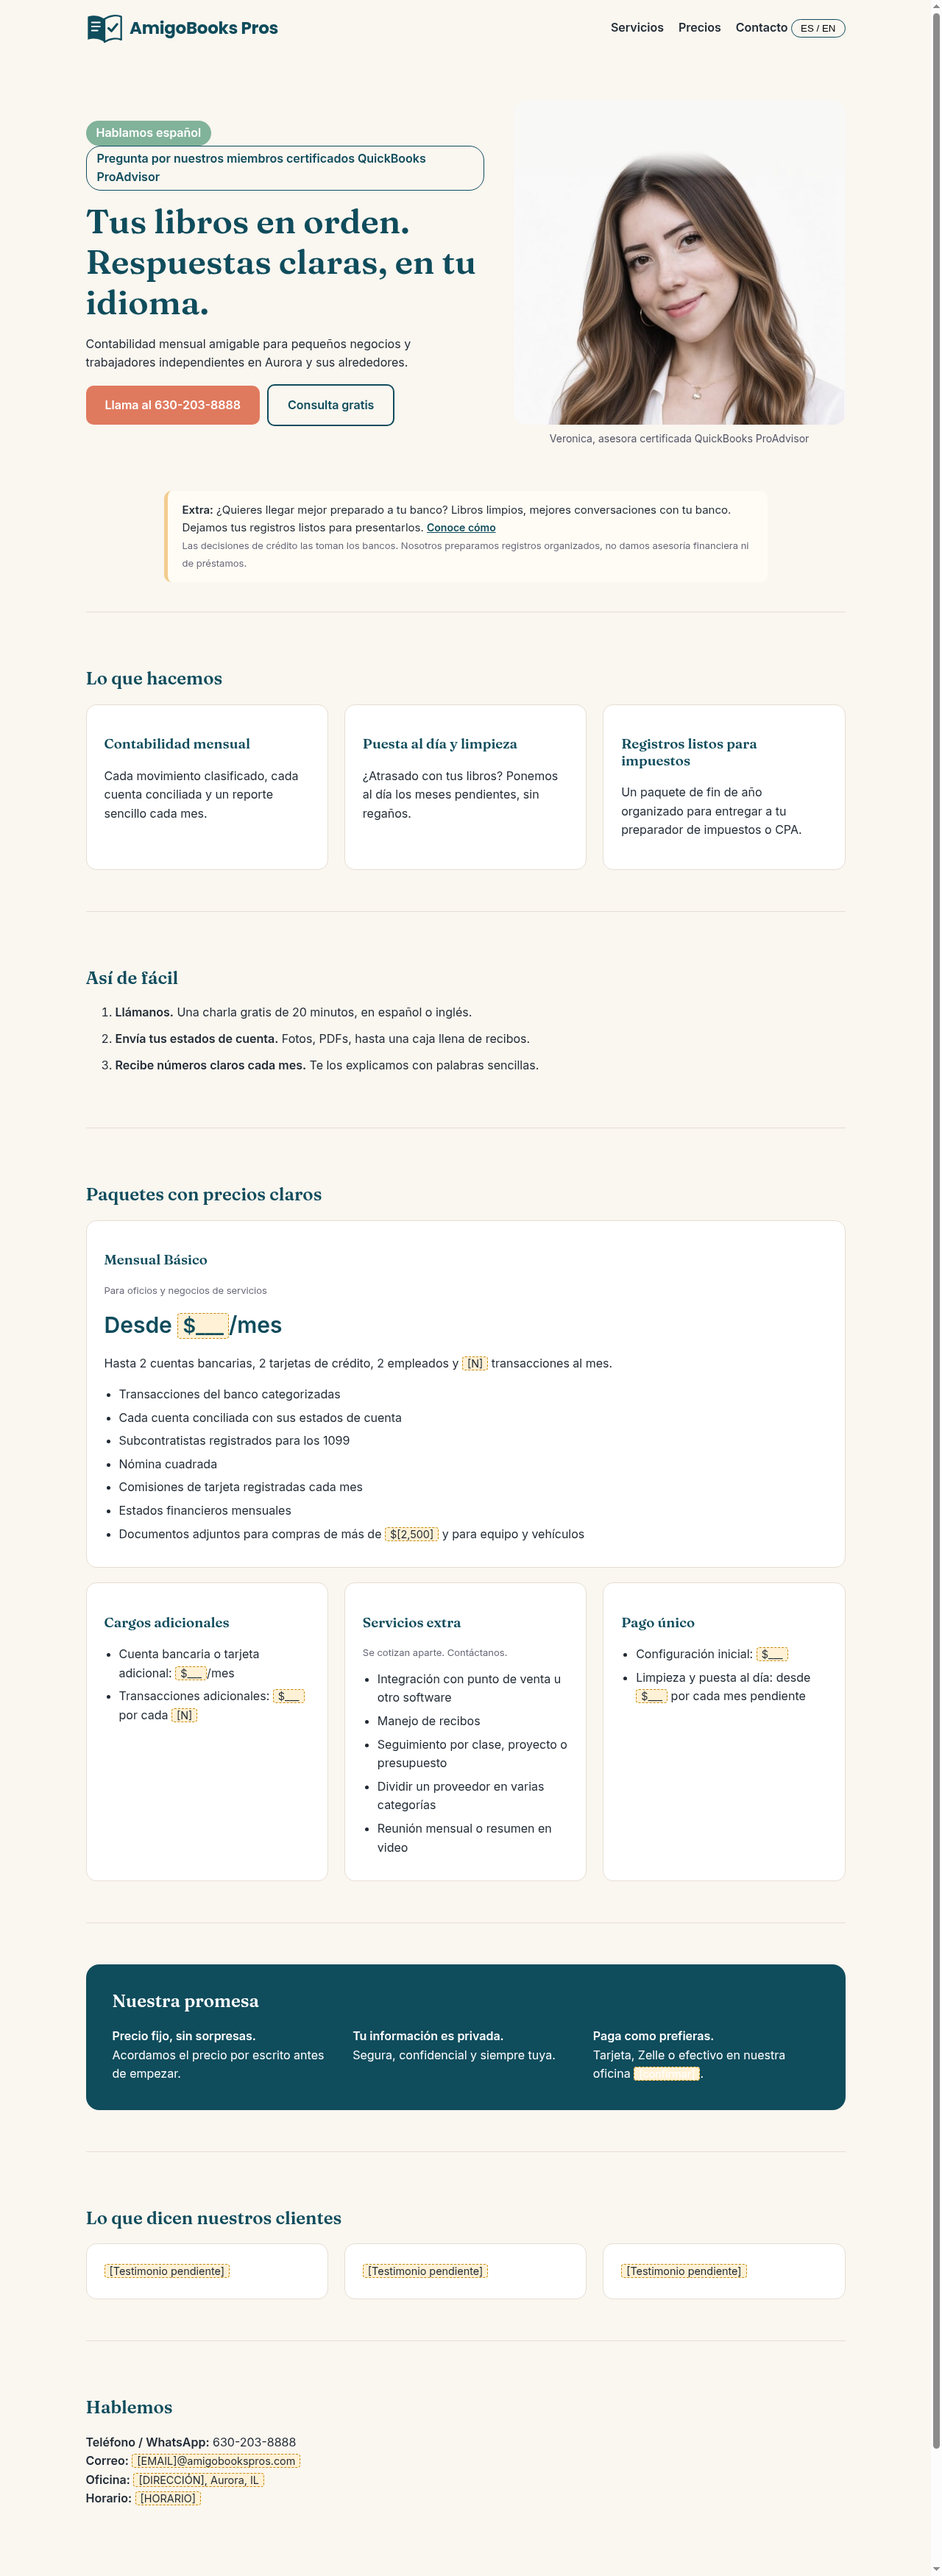
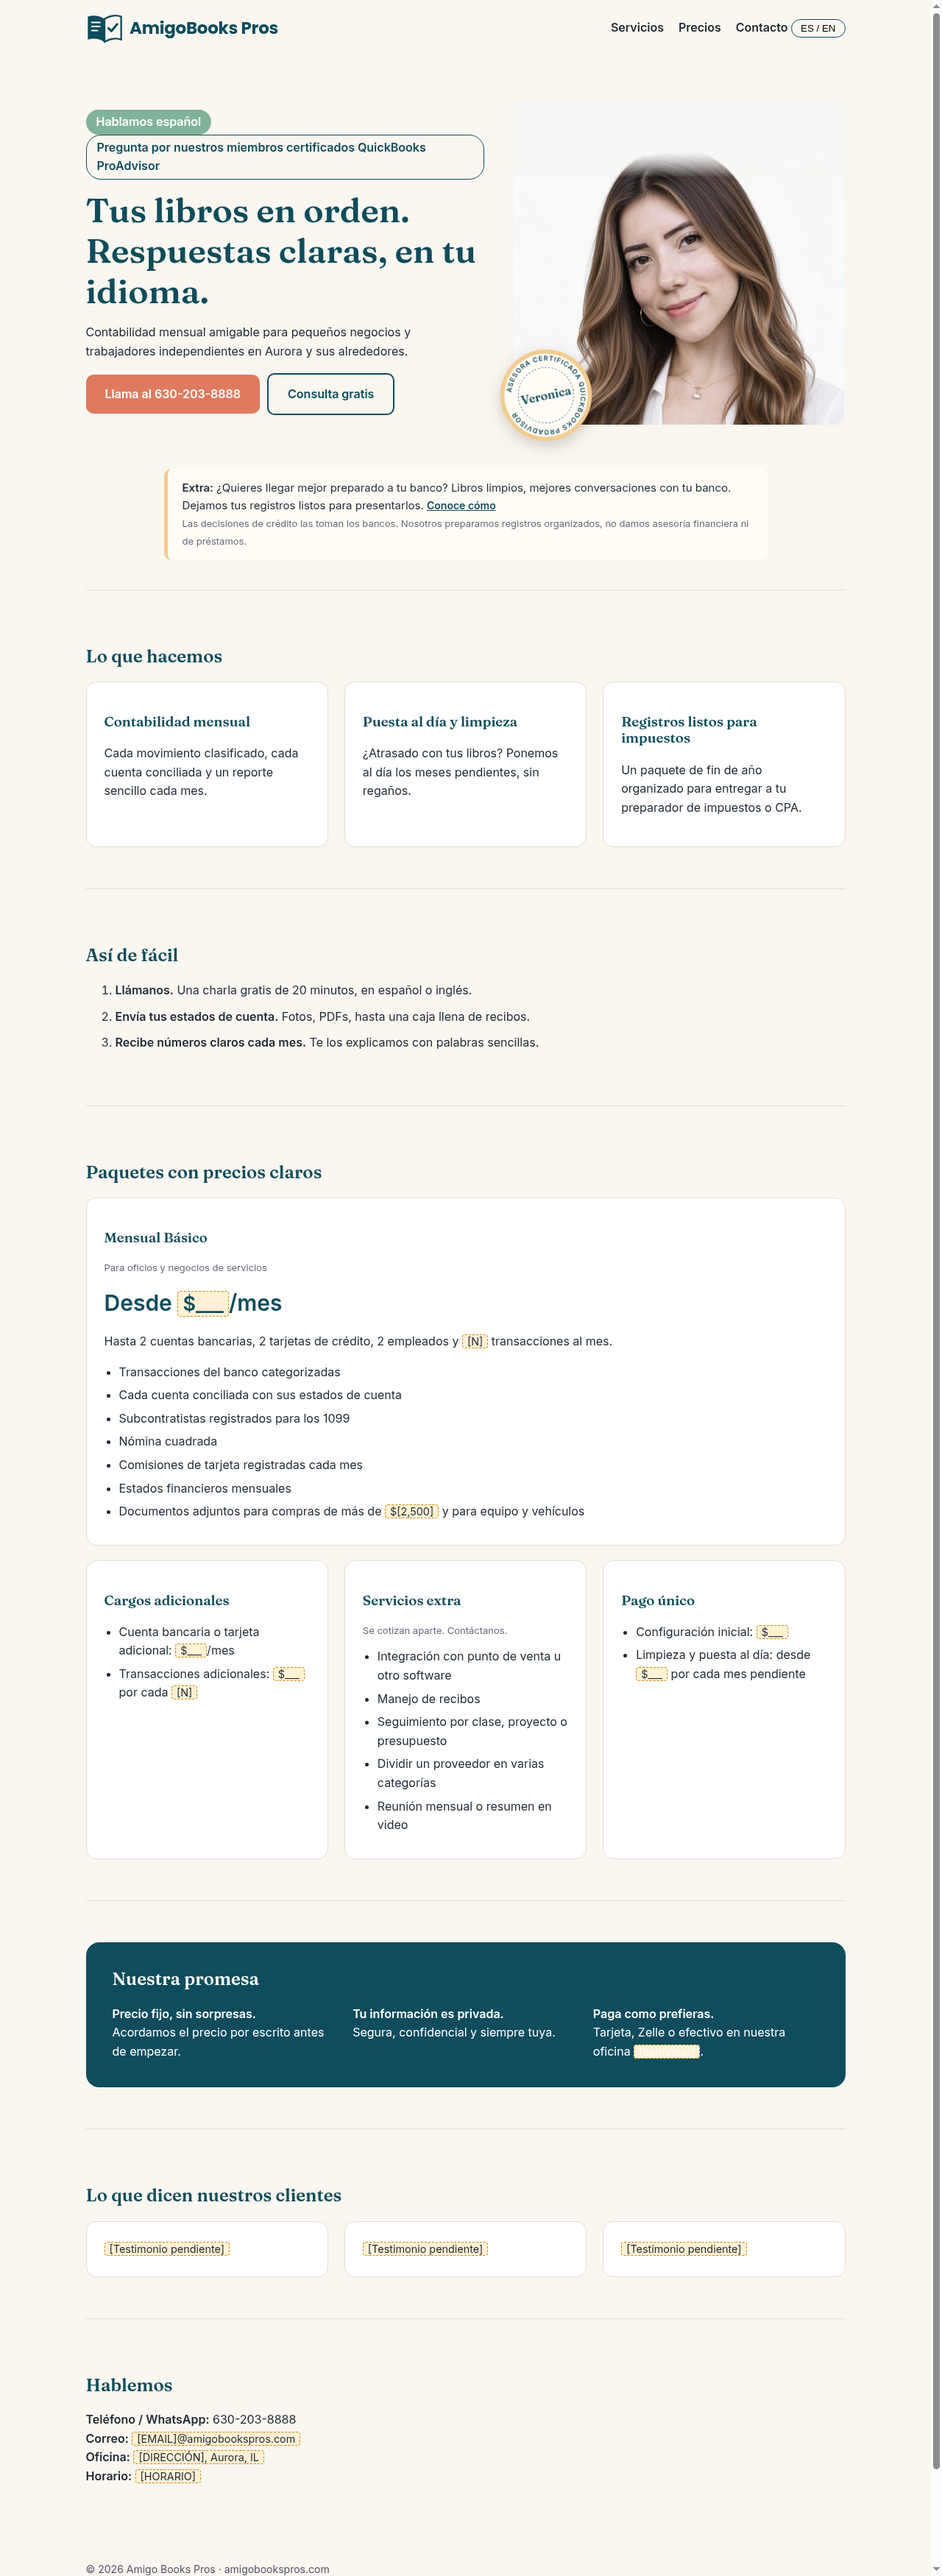
Replace photo caption with ProAdvisor seal

diff --git a/index.html b/index.html
@@ -24,7 +24,7 @@ section{padding:56px 0;border-top:1px solid var(--line)}
 .bonus{margin:0 auto 40px;max-width:820px;background:#FFFCF5;border-left:5px solid #F2CC8F;border-radius:10px;padding:14px 20px;font-size:15px}.bonus a{color:var(--teal);font-weight:600;font-size:14px}
 .disc{font-size:13px;color:#667}
 @media(max-width:800px){.hero,.g3,.promise{grid-template-columns:1fr}}
-.core{}.pl{padding-left:20px;margin:8px 0}.pl li{margin-bottom:6px}.vphoto{margin:0}.vphoto img{width:100%;height:440px;object-fit:cover;object-position:50% 0;border-radius:16px;display:block}.vphoto figcaption{font-size:14px;color:#556;margin-top:8px;text-align:center}</style></head><body>
+.core{}.pl{padding-left:20px;margin:8px 0}.pl li{margin-bottom:6px}.vphoto{margin:0;position:relative}.seal{position:absolute;left:-22px;bottom:-26px;width:132px;height:132px;transform:rotate(-12deg);filter:drop-shadow(0 6px 10px rgba(0,0,0,.18))}.seal svg{width:100%;height:100%}.seal .ring{font:700 9.6px Inter,sans-serif;letter-spacing:1px;fill:#0F4C5C}.seal .nm{font:600 17px Fraunces,serif;fill:#0F4C5C}@media(max-width:800px){.seal{width:108px;height:108px;left:-6px;bottom:-20px}}.vphoto img{width:100%;height:440px;object-fit:cover;object-position:50% 0;border-radius:16px;display:block}.vphoto figcaption{font-size:14px;color:#556;margin-top:8px;text-align:center}</style></head><body>
 <div class="wrap">
 <header><a class="logo" href="#" aria-label="AmigoBooks Pros"><svg viewBox="0 0 64 52" width="50" aria-hidden="true"><path d="M32 10 C22 3 10 3 3 6 V46 C10 43 22 43 32 50Z" fill="#0F4C5C"/><path d="M32 10 C42 3 54 3 61 6 V46 C54 43 42 43 32 50Z" fill="none" stroke="#0F4C5C" stroke-width="3" stroke-linejoin="round"/><path d="M10 16h14M10 23h14M10 30h10" stroke="#fff" stroke-width="2.6" stroke-linecap="round"/><path d="M39 26l5 5 10-12" stroke="#0F4C5C" stroke-width="4" fill="none" stroke-linecap="round" stroke-linejoin="round"/></svg><span>AmigoBooks Pros</span></a>
 <nav><a href="#services" data-en="Services" data-es="Servicios">Services</a><a href="#pricing" data-en="Pricing" data-es="Precios">Pricing</a><a href="#contact" data-en="Contact" data-es="Contacto">Contact</a> <button class="tog" onclick="t()" aria-label="Español / English">ES / EN</button></nav></header>
@@ -33,7 +33,7 @@ section{padding:56px 0;border-top:1px solid var(--line)}
 <h1 data-en="Your books, in order. Clear answers, in your language." data-es="Tus libros en orden. Respuestas claras, en tu idioma.">Your books, in order. Clear answers, in your language.</h1>
 <p data-en="Friendly monthly bookkeeping for small businesses and self-employed workers in Aurora and beyond." data-es="Contabilidad mensual amigable para pequeños negocios y trabajadores independientes en Aurora y sus alrededores.">Friendly monthly bookkeeping for small businesses and self-employed workers in Aurora and beyond.</p>
 <a class="btn" href="tel:6302038888" data-en="Call 630-203-8888" data-es="Llama al 630-203-8888">Call 630-203-8888</a><a class="btn o" href="#contact" data-en="Free consultation" data-es="Consulta gratis">Free consultation</a></div>
-<figure class="vphoto"><img src="veronica.jpg" alt="Veronica" width="800" height="1053"><figcaption data-en="Veronica, Certified QuickBooks ProAdvisor" data-es="Veronica, asesora certificada QuickBooks ProAdvisor">Veronica, Certified QuickBooks ProAdvisor</figcaption></figure></div>
+<figure class="vphoto"><img src="veronica.jpg" alt="Veronica" width="800" height="1053"><div class="seal" aria-label="Veronica, Certified QuickBooks ProAdvisor"><svg viewBox="0 0 140 140" aria-hidden="true"><defs><path id="ring" d="M70 70 m-50 0 a50 50 0 1 1 100 0 a50 50 0 1 1 -100 0"/></defs><circle cx="70" cy="70" r="66" fill="#F2CC8F"/><circle cx="70" cy="70" r="60" fill="#FFFCF5"/><circle cx="70" cy="70" r="40" fill="none" stroke="#0F4C5C" stroke-width="1" stroke-dasharray="2 3"/><text class="ring"><textPath href="#ring" startOffset="50%" text-anchor="middle" data-en="CERTIFIED QUICKBOOKS PROADVISOR" data-es="ASESORA CERTIFICADA QUICKBOOKS PROADVISOR">CERTIFIED QUICKBOOKS PROADVISOR</textPath></text><text x="70" y="76" text-anchor="middle" class="nm">Veronica</text></svg></div></figure></div>
 
 <div class="bonus" data-en="&lt;b&gt;Bonus:&lt;/b&gt; Want easier access to business loans? Clean books help. We get your records lender-ready. &lt;a href=&quot;#services&quot;&gt;Learn how&lt;/a&gt;&lt;br&gt;&lt;small class=&quot;disc&quot;&gt;Lending decisions are made by lenders. We prepare organized records, not loan or financial advice.&lt;/small&gt;" data-es="&lt;b&gt;Extra:&lt;/b&gt; ¿Quieres llegar mejor preparado a tu banco? Libros limpios, mejores conversaciones con tu banco. Dejamos tus registros listos para presentarlos. &lt;a href=&quot;#services&quot;&gt;Conoce cómo&lt;/a&gt;&lt;br&gt;&lt;small class=&quot;disc&quot;&gt;Las decisiones de crédito las toman los bancos. Nosotros preparamos registros organizados, no damos asesoría financiera ni de préstamos.&lt;/small&gt;"><b>Bonus:</b> Want easier access to business loans? Clean books help. We get your records lender-ready. <a href="#services">Learn how</a><br><small class="disc">Lending decisions are made by lenders. We prepare organized records, not loan or financial advice.</small></div>
 
